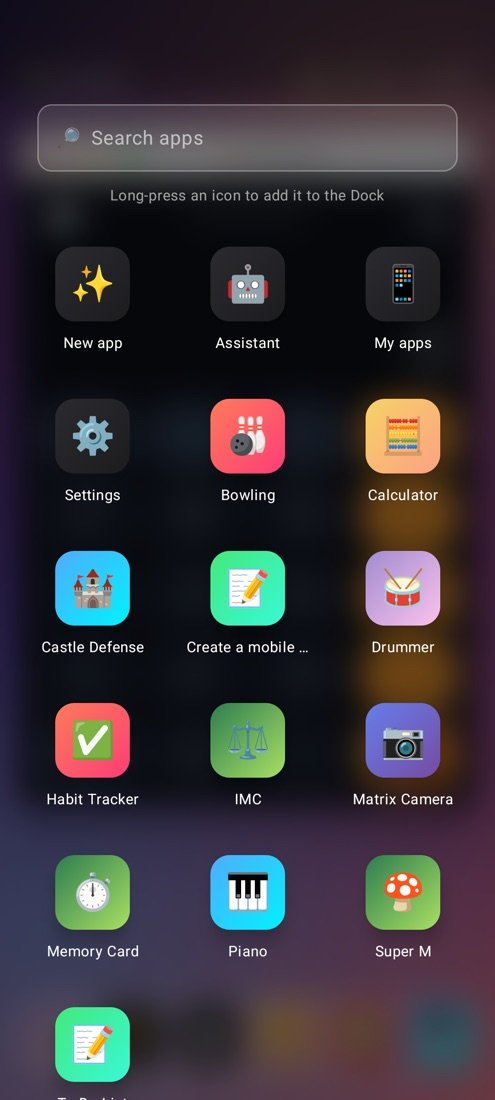
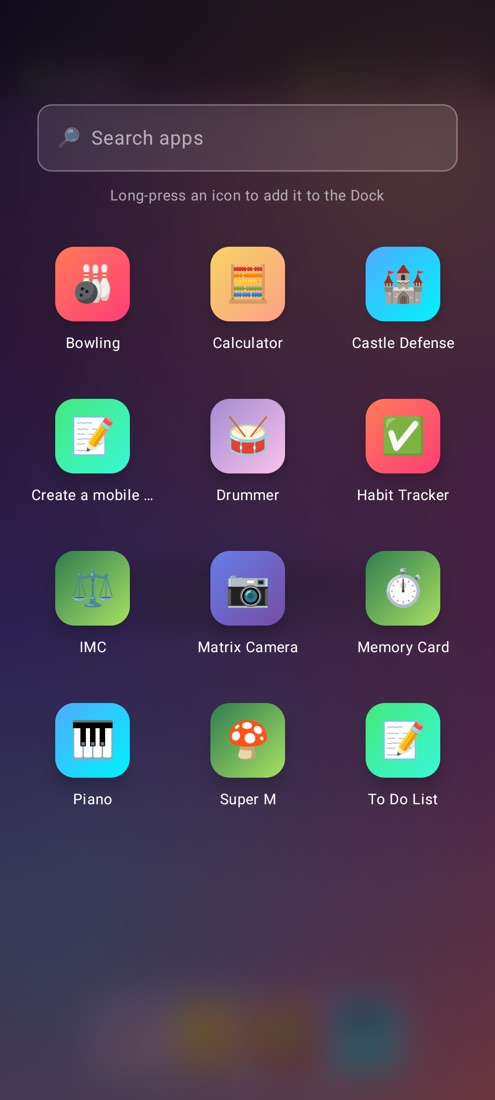
AcornixOS: only the user's apps on the desktop
The Launchpad and the Dock showed shortcuts to Acornix's own screens (New
app, Assistant, My apps, Settings). They were just links out of the
desktop, so AcornixOS now lists only apps. Shortcuts saved in the Dock by
the first beta are dropped, and the default Dock is the 4 most recent apps.
This also removes the screen routing MainActivity needed for them.

diff --git a/app/src/main/java/com/gonzaroman/acornix/ui/os/DesktopScreen.kt b/app/src/main/java/com/gonzaroman/acornix/ui/os/DesktopScreen.kt
@@ -103,7 +103,6 @@ class DesktopState(
 
 interface DesktopActions {
     fun openApp(app: AppMeta)
-    fun openSystem(app: SystemApp)
     fun focus(window: OsWindow)
     fun close(window: OsWindow)
     fun minimize(window: OsWindow)
@@ -384,18 +383,15 @@ private fun Dock(state: DesktopState, actions: DesktopActions, modifier: Modifie
             onLongClick = null,
         )
         state.dock.forEach { key ->
-            val system = SystemApp.fromKey(key)
-            val app = if (system == null) state.apps.firstOrNull { appKey(it.id) == key } else null
-            if (system == null && app == null) return@forEach
-            val label = system?.let { stringResource(it.label) } ?: app!!.name
+            val app = state.apps.firstOrNull { appKey(it.id) == key } ?: return@forEach
             DockIcon(
-                emoji = system?.emoji ?: app!!.emoji,
-                background = if (system != null) Brush.linearGradient(listOf(Color(0xFF2B2B2E), Color(0xFF1C1C1E))) else appGradient(app!!.id),
-                running = app != null && app.id in openIds,
-                onClick = { if (system != null) actions.openSystem(system) else actions.openApp(app!!) },
+                emoji = app.emoji,
+                background = appGradient(app.id),
+                running = app.id in openIds,
+                onClick = { actions.openApp(app) },
                 onLongClick = {
                     haptics.performHapticFeedback(HapticFeedbackType.LongPress)
-                    actions.removeFromDock(key, label)
+                    actions.removeFromDock(key, app.name)
                 },
             )
         }
@@ -440,25 +436,14 @@ private fun DockIcon(emoji: String, background: Brush, running: Boolean, onClick
 
 // --- Launchpad -------------------------------------------------------------------------------
 
-private sealed interface LaunchItem {
-    val key: String
-    data class System(val app: SystemApp) : LaunchItem { override val key get() = app.key }
-    data class App(val app: AppMeta) : LaunchItem { override val key get() = appKey(app.id) }
-}
-
 @OptIn(ExperimentalFoundationApi::class)
 @Composable
 private fun Launchpad(state: DesktopState, actions: DesktopActions) {
     var query by remember { mutableStateOf("") }
     val haptics = LocalHapticFeedback.current
-    val systemLabels = SystemApp.entries.associateWith { stringResource(it.label) }
     val items = remember(state.apps, query) {
         val q = query.trim().lowercase()
-        val sys = SystemApp.entries.filter { q.isEmpty() || systemLabels.getValue(it).lowercase().contains(q) }.map { LaunchItem.System(it) }
-        val apps = state.apps.sortedBy { it.name.lowercase() }
-            .filter { q.isEmpty() || it.name.lowercase().contains(q) }
-            .map { LaunchItem.App(it) }
-        sys + apps
+        state.apps.sortedBy { it.name.lowercase() }.filter { q.isEmpty() || it.name.lowercase().contains(q) }
     }
     Column(
         Modifier
@@ -501,25 +486,18 @@ private fun Launchpad(state: DesktopState, actions: DesktopActions) {
             horizontalArrangement = Arrangement.spacedBy(8.dp),
             contentPadding = androidx.compose.foundation.layout.PaddingValues(vertical = 20.dp),
         ) {
-            items(items, key = { it.key }) { item ->
-                val label = when (item) {
-                    is LaunchItem.System -> systemLabels.getValue(item.app)
-                    is LaunchItem.App -> item.app.name
-                }
+            items(items, key = { it.id }) { app ->
                 Column(
                     Modifier
                         .clip(RoundedCornerShape(12.dp))
                         .combinedClickable(
                             onClick = {
                                 actions.launchpad(false)
-                                when (item) {
-                                    is LaunchItem.System -> actions.openSystem(item.app)
-                                    is LaunchItem.App -> actions.openApp(item.app)
-                                }
+                                actions.openApp(app)
                             },
                             onLongClick = {
                                 haptics.performHapticFeedback(HapticFeedbackType.LongPress)
-                                actions.addToDock(item.key, label)
+                                actions.addToDock(appKey(app.id), app.name)
                             },
                         )
                         .padding(6.dp),
@@ -530,24 +508,13 @@ private fun Launchpad(state: DesktopState, actions: DesktopActions) {
                             .size(62.dp)
                             .shadow(8.dp, RoundedCornerShape(16.dp))
                             .clip(RoundedCornerShape(16.dp))
-                            .background(
-                                when (item) {
-                                    is LaunchItem.System -> Brush.linearGradient(listOf(Color(0xFF2B2B2E), Color(0xFF1C1C1E)))
-                                    is LaunchItem.App -> appGradient(item.app.id)
-                                },
-                            ),
+                            .background(appGradient(app.id)),
                         contentAlignment = Alignment.Center,
                     ) {
-                        Text(
-                            when (item) {
-                                is LaunchItem.System -> item.app.emoji
-                                is LaunchItem.App -> item.app.emoji
-                            },
-                            fontSize = 30.sp,
-                        )
+                        Text(app.emoji, fontSize = 30.sp)
                     }
                     Spacer(Modifier.height(6.dp))
-                    Text(label, color = Color.White, fontSize = 12.sp, maxLines = 1, overflow = TextOverflow.Ellipsis, textAlign = TextAlign.Center)
+                    Text(app.name, color = Color.White, fontSize = 12.sp, maxLines = 1, overflow = TextOverflow.Ellipsis, textAlign = TextAlign.Center)
                 }
             }
         }

diff --git a/app/src/main/java/com/gonzaroman/acornix/ui/AcornixApp.kt b/app/src/main/java/com/gonzaroman/acornix/ui/AcornixApp.kt
@@ -27,9 +27,6 @@ import androidx.compose.material3.Text
 import androidx.compose.runtime.Composable
 import androidx.compose.runtime.LaunchedEffect
 import androidx.compose.runtime.getValue
-import androidx.compose.runtime.mutableStateOf
-import androidx.compose.runtime.saveable.rememberSaveable
-import androidx.compose.runtime.setValue
 import androidx.compose.ui.Modifier
 import androidx.compose.ui.graphics.vector.ImageVector
 import androidx.compose.ui.res.stringResource
@@ -42,7 +39,6 @@ import androidx.navigation.compose.currentBackStackEntryAsState
 import androidx.navigation.compose.rememberNavController
 import androidx.navigation.navArgument
 import com.gonzaroman.acornix.ui.tools.ControlHelpScreen
-import com.gonzaroman.acornix.MainActivity
 import com.gonzaroman.acornix.R
 import com.gonzaroman.acornix.ui.apps.AppsScreen
 import com.gonzaroman.acornix.ui.assistant.AssistantScreen
@@ -94,21 +90,13 @@ private val TABS = listOf(
 )
 
 /** Things other apps hand to Acornix (share sheet, notification taps). */
-data class ExternalRequest(
-    val openAssistant: Boolean = false,
-    val sharedText: String? = null,
-    val sharedImage: Uri? = null,
-    /** A screen asked for by AcornixOS ([MainActivity.SCREEN_CREATE]...). */
-    val screen: String? = null,
-    val fromOs: Boolean = false,
-)
+data class ExternalRequest(val openAssistant: Boolean = false, val sharedText: String? = null, val sharedImage: Uri? = null)
 
 @Composable
 fun AcornixApp(
     startOnboarding: Boolean,
     external: ExternalRequest?,
     onExternalConsumed: () -> Unit,
-    onReturnToOs: () -> Unit = {},
 ) {
     val nav = rememberNavController()
     val backStack by nav.currentBackStackEntryAsState()
@@ -123,28 +111,6 @@ fun AcornixApp(
     LaunchedEffect(external) {
         if (external != null && (external.openAssistant || external.sharedText != null || external.sharedImage != null)) {
             nav.navigate(Routes.assistant()) { launchSingleTop = true }
-        }
-    }
-
-    // Screens opened from AcornixOS go back to the desktop instead of staying on Home.
-    var returnToOsFrom by rememberSaveable { mutableStateOf<String?>(null) }
-    LaunchedEffect(external) {
-        val screen = external?.screen ?: return@LaunchedEffect
-        when (screen) {
-            MainActivity.SCREEN_CREATE -> nav.navigate(Routes.create()) { launchSingleTop = true }
-            MainActivity.SCREEN_ASSISTANT -> nav.navigateTab(Routes.assistant())
-            MainActivity.SCREEN_SETTINGS -> nav.navigateTab(Routes.SETTINGS)
-            MainActivity.SCREEN_APPS -> nav.navigateTab(Routes.APPS)
-        }
-        returnToOsFrom = if (external.fromOs) nav.currentBackStackEntry?.destination?.route else null
-        onExternalConsumed()
-    }
-    // Leaving that screen (Back, or the Home tab) lands on Home: hand the user back to the desktop.
-    // Done on the route instead of a BackHandler, which NavHost's own handler outranks after a resume.
-    LaunchedEffect(route) {
-        if (returnToOsFrom != null && route == Routes.HOME) {
-            returnToOsFrom = null
-            onReturnToOs()
         }
     }
 

diff --git a/app/src/main/java/com/gonzaroman/acornix/ui/os/OsModel.kt b/app/src/main/java/com/gonzaroman/acornix/ui/os/OsModel.kt
@@ -1,26 +1,11 @@
 package com.gonzaroman.acornix.ui.os
 
 import android.content.Context
-import androidx.annotation.StringRes
 import androidx.compose.runtime.getValue
 import androidx.compose.runtime.mutableFloatStateOf
 import androidx.compose.runtime.mutableStateOf
 import androidx.compose.runtime.setValue
-import com.gonzaroman.acornix.MainActivity
-import com.gonzaroman.acornix.R
 import com.gonzaroman.acornix.data.AppMeta
-
-/** Built-in entries of the desktop: they open Acornix's own screens. */
-enum class SystemApp(val key: String, val emoji: String, @StringRes val label: Int, val screen: String) {
-    CREATE("sys:create", "✨", R.string.os_new_app, MainActivity.SCREEN_CREATE),
-    ASSISTANT("sys:assistant", "🤖", R.string.os_assistant, MainActivity.SCREEN_ASSISTANT),
-    APPS("sys:apps", "📱", R.string.os_my_apps, MainActivity.SCREEN_APPS),
-    SETTINGS("sys:settings", "⚙", R.string.os_settings, MainActivity.SCREEN_SETTINGS);
-
-    companion object {
-        fun fromKey(key: String) = entries.firstOrNull { it.key == key }
-    }
-}
 
 fun appKey(appId: String) = "app:$appId"
 
@@ -44,10 +29,10 @@ class OsPrefs(context: Context) {
 
     fun dock(apps: List<AppMeta>): List<String> {
         val saved = prefs.getString(KEY_DOCK, null)
-        if (saved != null) return saved.split('\n').filter { it.isNotBlank() }
-        // First time: the essentials plus the two most recently opened apps.
-        val recent = apps.sortedByDescending { maxOf(it.lastOpenedAt, it.updatedAt) }.take(2).map { appKey(it.id) }
-        return listOf(SystemApp.CREATE.key, SystemApp.ASSISTANT.key) + recent
+        // Only apps live in the Dock (early betas also pinned shortcuts to Acornix's screens).
+        if (saved != null) return saved.split('\n').filter { it.startsWith("app:") }
+        // First time: the four most recently used apps.
+        return apps.sortedByDescending { maxOf(it.lastOpenedAt, it.updatedAt) }.take(4).map { appKey(it.id) }
     }
 
     fun saveDock(keys: List<String>) = prefs.edit().putString(KEY_DOCK, keys.joinToString("\n")).apply()

diff --git a/app/src/main/java/com/gonzaroman/acornix/MainActivity.kt b/app/src/main/java/com/gonzaroman/acornix/MainActivity.kt
@@ -45,7 +45,6 @@ class MainActivity : ComponentActivity() {
                         startOnboarding = !s.onboardingDone,
                         external = external,
                         onExternalConsumed = { external = null },
-                        onReturnToOs = { moveTaskToBack(true) },
                     )
                 }
             }
@@ -61,7 +60,6 @@ class MainActivity : ComponentActivity() {
         intent ?: return
         when (intent.action) {
             ACTION_OPEN_ASSISTANT -> external = ExternalRequest(openAssistant = true)
-            ACTION_OPEN_SCREEN -> external = ExternalRequest(screen = intent.getStringExtra(EXTRA_SCREEN), fromOs = true)
             Intent.ACTION_SEND -> {
                 val text = intent.getStringExtra(Intent.EXTRA_TEXT)
                 val image = if (Build.VERSION.SDK_INT >= 33) {
@@ -88,13 +86,5 @@ class MainActivity : ComponentActivity() {
 
     companion object {
         const val ACTION_OPEN_ASSISTANT = "com.gonzaroman.acornix.OPEN_ASSISTANT"
-
-        /** Opens one screen for AcornixOS; Back on that screen returns to the desktop. */
-        const val ACTION_OPEN_SCREEN = "com.gonzaroman.acornix.OPEN_SCREEN"
-        const val EXTRA_SCREEN = "screen"
-        const val SCREEN_CREATE = "create"
-        const val SCREEN_ASSISTANT = "assistant"
-        const val SCREEN_SETTINGS = "settings"
-        const val SCREEN_APPS = "apps"
     }
 }

diff --git a/app/src/main/java/com/gonzaroman/acornix/web/AcornixOsActivity.kt b/app/src/main/java/com/gonzaroman/acornix/web/AcornixOsActivity.kt
@@ -18,7 +18,6 @@ import androidx.core.view.WindowCompat
 import androidx.core.view.WindowInsetsCompat
 import androidx.core.view.WindowInsetsControllerCompat
 import androidx.lifecycle.lifecycleScope
-import com.gonzaroman.acornix.MainActivity
 import com.gonzaroman.acornix.R
 import com.gonzaroman.acornix.container
 import com.gonzaroman.acornix.data.AppMeta
@@ -29,7 +28,6 @@ import com.gonzaroman.acornix.ui.os.DesktopScreen
 import com.gonzaroman.acornix.ui.os.DesktopState
 import com.gonzaroman.acornix.ui.os.OsPrefs
 import com.gonzaroman.acornix.ui.os.OsWindow
-import com.gonzaroman.acornix.ui.os.SystemApp
 import com.gonzaroman.acornix.ui.os.WALLPAPER_COUNT
 import com.gonzaroman.acornix.ui.theme.AcornixTheme
 import kotlinx.coroutines.CoroutineScope
@@ -160,15 +158,6 @@ class AcornixOsActivity : ComponentActivity(), DesktopActions {
         win.x = w * if (tablet) 0.04f + step * 0.04f else 0.04f
         win.y = h * if (tablet) 0.03f + step * 0.035f else 0.04f + step * 0.03f
         win.maximized = !tablet
-    }
-
-    override fun openSystem(app: SystemApp) {
-        startActivity(
-            Intent(this, MainActivity::class.java)
-                .setAction(MainActivity.ACTION_OPEN_SCREEN)
-                .putExtra(MainActivity.EXTRA_SCREEN, app.screen)
-                .addFlags(Intent.FLAG_ACTIVITY_NEW_TASK),
-        )
     }
 
     override fun focus(window: OsWindow) {

diff --git a/README.md b/README.md
@@ -94,7 +94,7 @@ Open **AcornixOS** from Tools and your apps become a desktop, inspired by macOS:
 
 - **Windows** you can drag, resize, minimize and maximize, with the classic red, yellow and green buttons. Touch one and it comes to the front.
 - A **Dock** with your favourite apps and the ones you have open. Long-press to add or remove.
-- A **Launchpad** with every app and a search box, plus shortcuts to create a new app, the assistant and settings.
+- A **Launchpad** with all your apps and a search box.
 - **Wallpapers** to choose from, and a menu bar with the time and battery.
 - On a **tablet** you get several apps side by side, like a real computer. On a phone, windows open full size.
 
